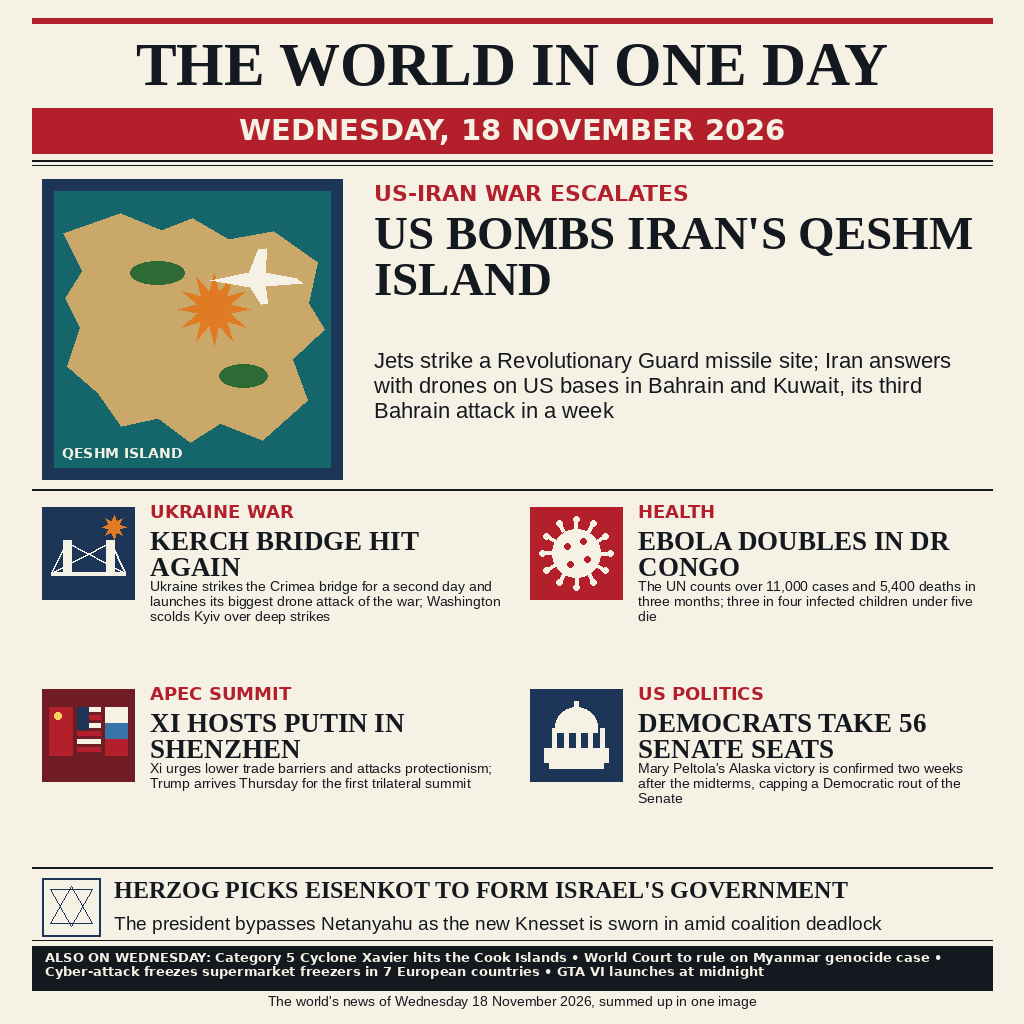
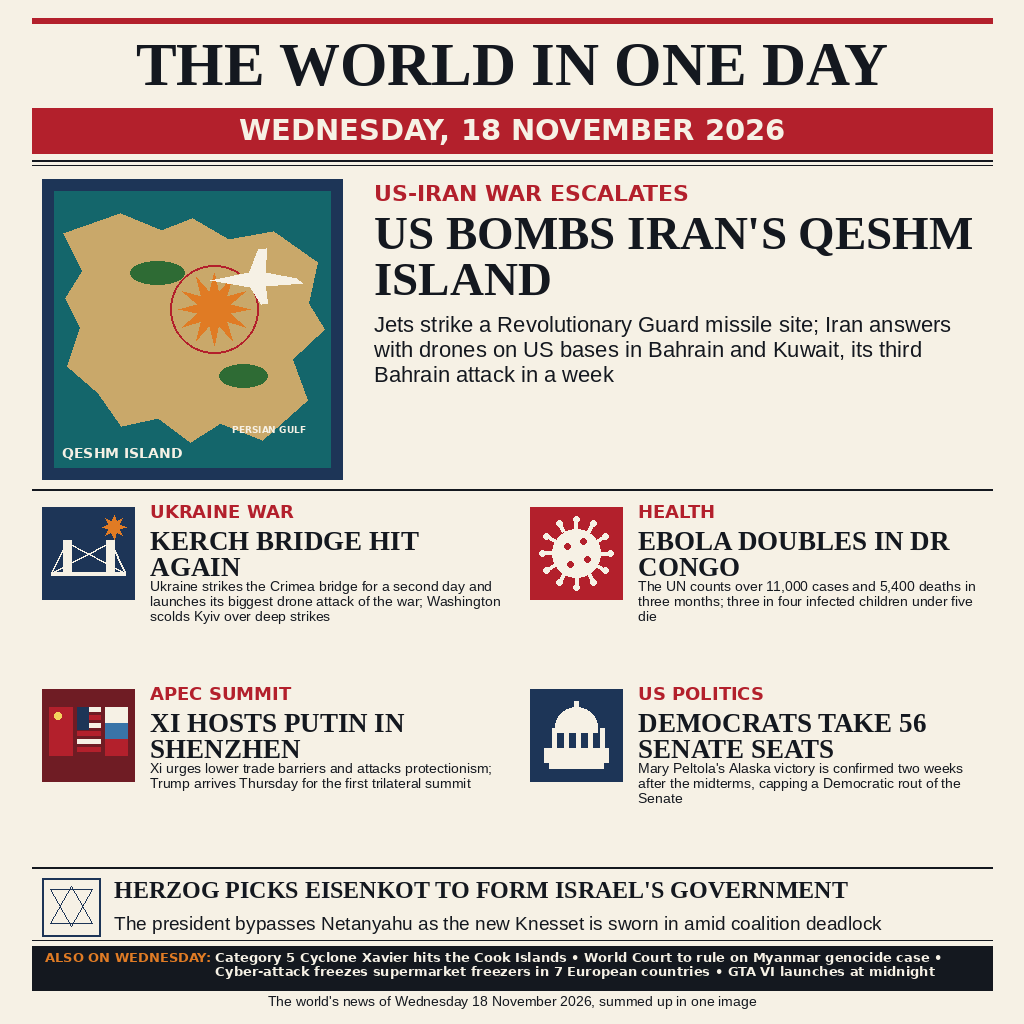
Polish: lead spacing, target ring, ticker accent

Changed region(s): [[0.3438, 0.3125, 0.9375, 0.4062], [0.0312, 0.9062, 0.9062, 0.9688], [0.25, 0.4062, 0.2812, 0.4375]]

diff --git a/compose.py b/compose.py
@@ -84,13 +84,15 @@ d.polygon([(px+21,py+54),(px+78,py+34),(px+119,py+51),(px+150,py+39),(px+186,py+
 d.ellipse((px+88,py+82,px+142,py+105), fill=GREEN)
 d.ellipse((px+177,py+185,px+225,py+208), fill=GREEN)
 star(px+172, py+130, 36, 17, fill=ORANGE)
+d.ellipse((px+128, py+86, px+216, py+174), outline=RED, width=2)
 jet(px+215, py+101, .88)
 d.text((px+20,py+266), "QESHM ISLAND", font=bold(14), fill=PAPER)
+d.text((px+190,py+245), "PERSIAN GULF", font=bold(9), fill=PAPER)
 
 tx = 374
 d.text((tx, 180), "US-IRAN WAR ESCALATES", font=bold(22), fill=RED)
 draw_text_block("US BOMBS IRAN'S QESHM ISLAND", (tx, 207), serif(47), INK, 605, line_gap=-1, max_lines=3)
-draw_text_block("Jets strike a Revolutionary Guard missile site; Iran answers with drones on US bases in Bahrain and Kuwait, its third Bahrain attack in a week", (tx, 348), sans(22), INK, 605, line_gap=3, max_lines=4)
+draw_text_block("Jets strike a Revolutionary Guard missile site; Iran answers with drones on US bases in Bahrain and Kuwait, its third Bahrain attack in a week", (tx, 312), sans(22), INK, 605, line_gap=3, max_lines=4)
 d.line((32, 489, 992, 489), fill=INK, width=2)
 
 # Four compact illustrated stories
@@ -167,7 +169,12 @@ d.line((32, 940, 992, 940), fill=INK, width=1)
 # Ticker and footer
 tick_text = "ALSO ON WEDNESDAY: Category 5 Cyclone Xavier hits the Cook Islands • World Court to rule on Myanmar genocide case • Cyber-attack freezes supermarket freezers in 7 European countries • GTA VI launches at midnight"
 d.rectangle((32, 946, 992, 990), fill=INK)
-draw_text_block(tick_text, (45, 949), bold(13), PAPER, 934, line_gap=1, max_lines=2)
+tick_font = bold(13)
+tick_prefix = "ALSO ON WEDNESDAY:"
+d.text((45, 949), tick_prefix, font=tick_font, fill=ORANGE)
+tick_rest = tick_text[len(tick_prefix):].lstrip()
+tick_rest_x = 45 + d.textlength(tick_prefix + " ", font=tick_font)
+draw_text_block(tick_rest, (tick_rest_x, 949), tick_font, PAPER, 934 - (tick_rest_x - 45), line_gap=1, max_lines=2)
 footer = "The world's news of Wednesday 18 November 2026, summed up in one image"
 # Footer sits in the final safe margin, centered and fully visible.
 d.text(((W-d.textlength(footer,font=sans(14)))/2,993), footer, font=sans(14), fill=INK)
